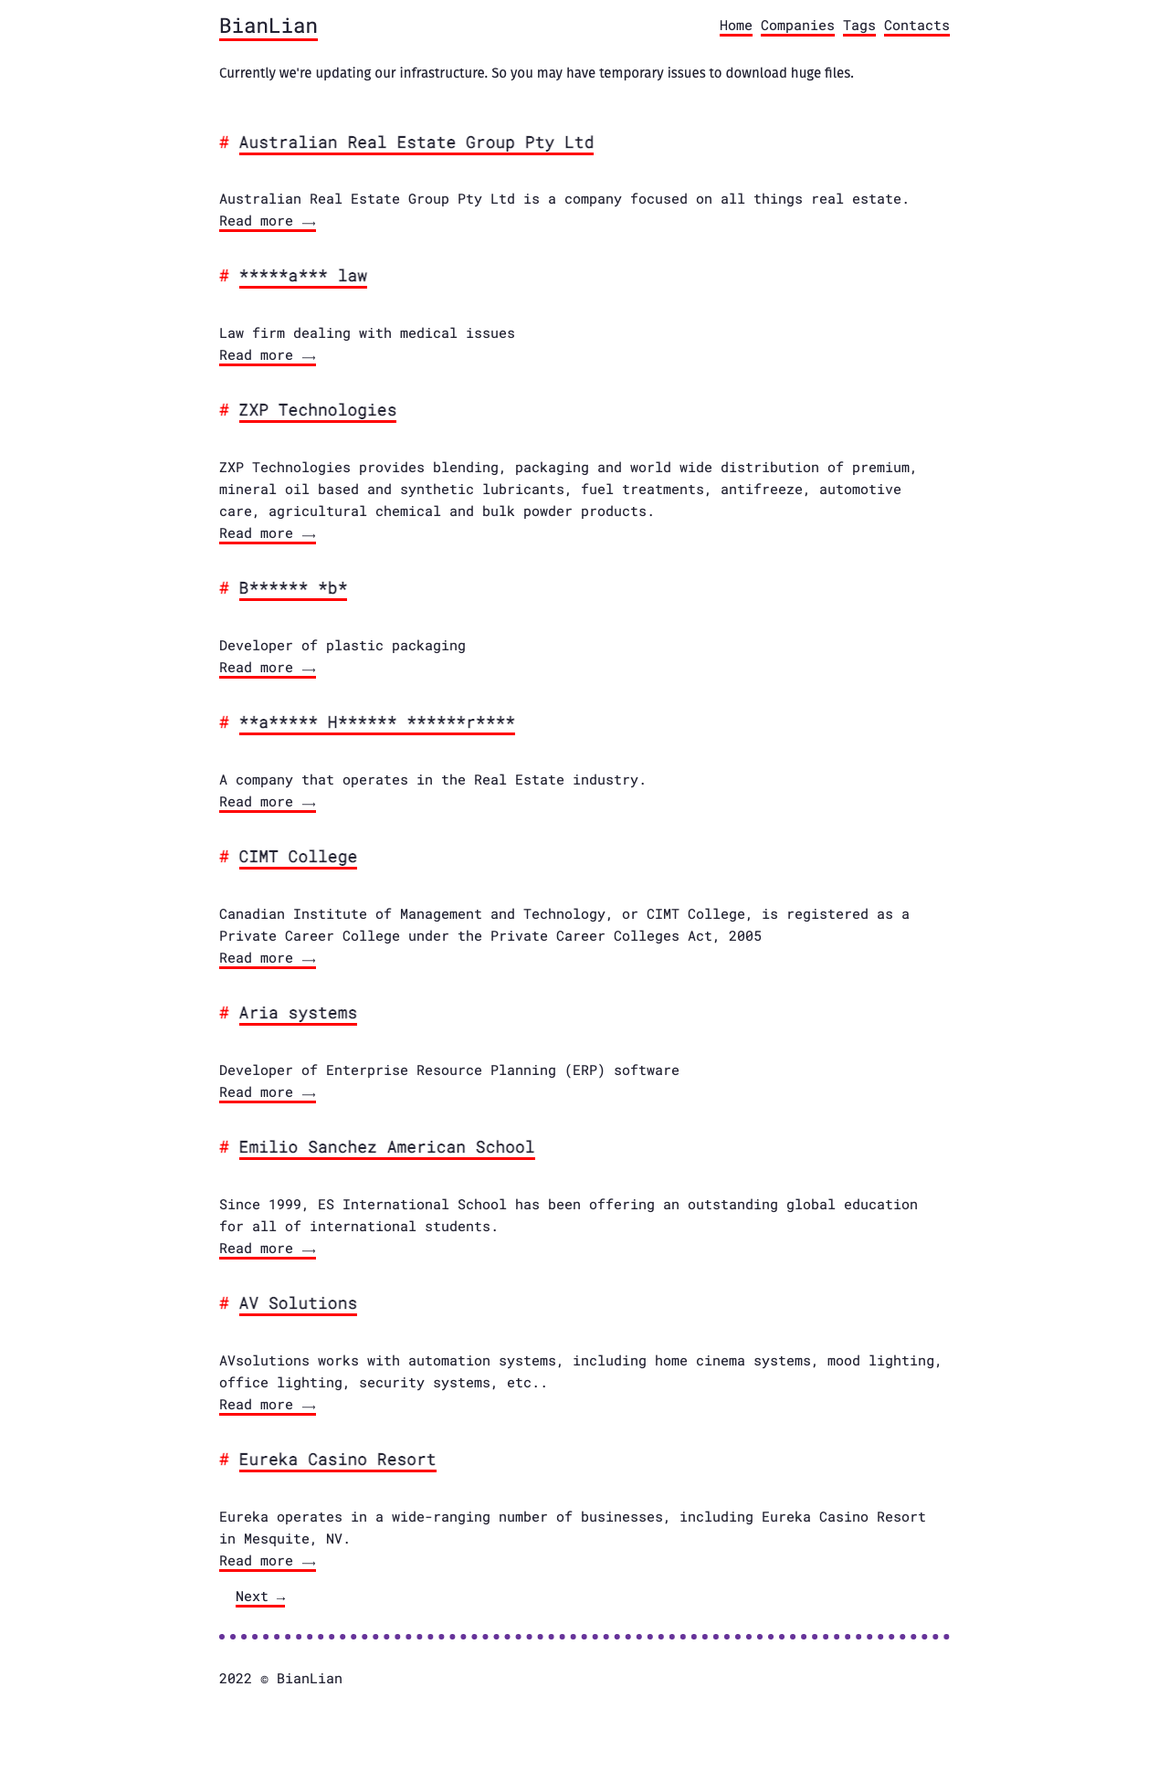
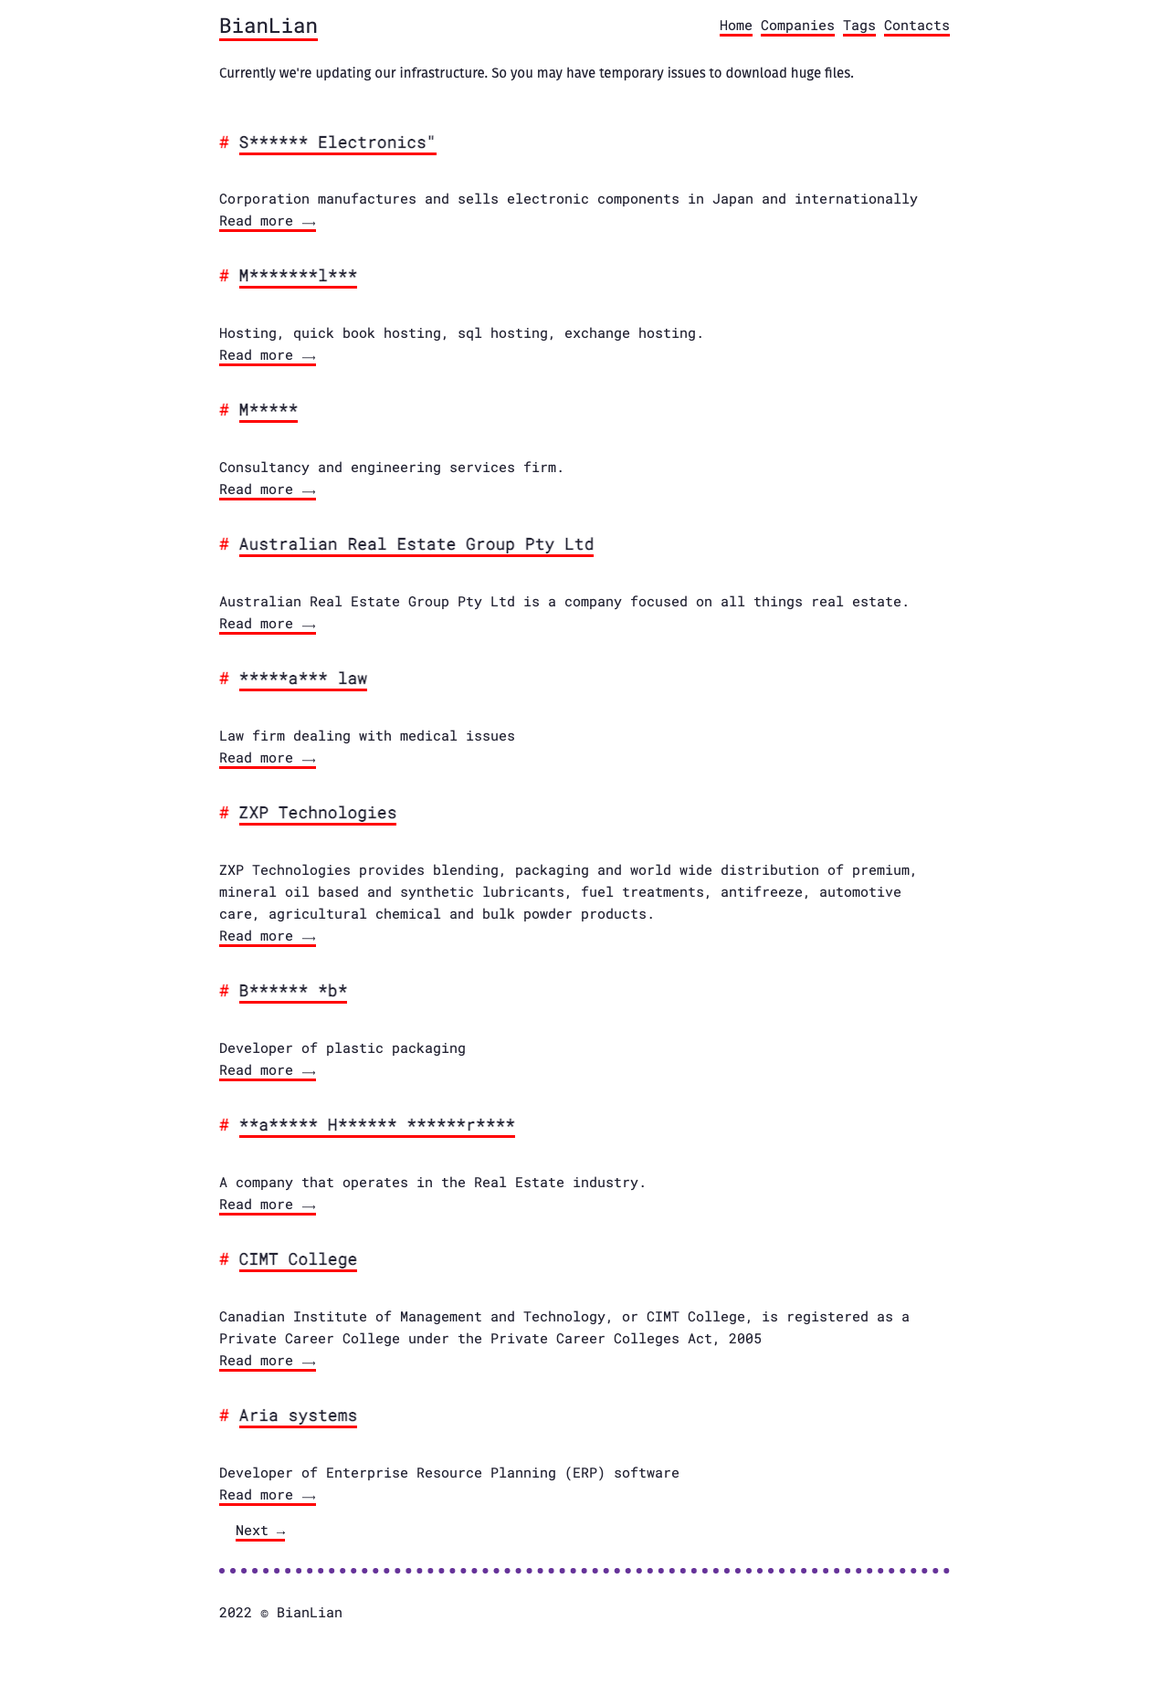
Refresh the Bianlian parser to include description

diff --git a/source/bianlian-bianlianlbc5an4kgnay3opdemgcryg2kpfcbgczopmm3dnbz3uaunad.html b/source/bianlian-bianlianlbc5an4kgnay3opdemgcryg2kpfcbgczopmm3dnbz3uaunad.html
@@ -1,4 +1,4 @@
-<head><meta charset="utf-8"><meta http-equiv="x-ua-compatible" content="IE=edge"><title>Companies - BianLian</title><meta name="viewport" content="width=device-width,initial-scale=1"><meta name="description" content=""><meta property="og:image" content=""><link rel="alternate" type="application/rss+xml" href="/companies/index.xml" title="BianLian"><meta property="og:title" content="Companies"><meta property="og:description" content=""><meta property="og:type" content="website"><meta property="og:url" content="/companies/"><link href="/css/fonts.b685ac6f654695232de7b82a9143a46f9e049c8e3af3a21d9737b01f4be211d1.css" rel="stylesheet"><link rel="stylesheet" type="text/css" media="screen" href="/css/main.40ca3a860425083862b7ebd55447caec5c4384573f0cb098b8d06a91e8dace2e.css"><link id="darkModeStyle" rel="stylesheet" type="text/css" href="/css/dark.726cd11ca6eb7c4f7d48eb420354f814e5c1b94281aaf8fd0511c1319f7f78a4.css" media="(prefers-color-scheme: dark)"></head><body><div class="content"><header><div class="main"><a href="">BianLian</a></div><nav><a href="/">Home</a>
-<a href="/companies">Companies</a>
-<a href="/tags">Tags</a>
-<a href="/contacts">Contacts</a></nav></header><h1 class="page-title">All companies</h1><ul class="posts"><li class="post"><a href="/companies/areg.com.au/">Australian Real Estate Group Pty Ltd</a> <span class="meta">Nov 29, 2022</span></li><li class="post"><a href="/companies/gu__________/">*****a*** law</a> <span class="meta">Nov 28, 2022</span></li><li class="post"><a href="/companies/zxptech.com/">ZXP Technologies</a> <span class="meta">Nov 27, 2022</span></li><li class="post"><a href="/companies/berlina.co.id/">B****** *b*</a> <span class="meta">Nov 27, 2022</span></li><li class="post"><a href="/companies/realstar.ca/">**a***** H****** ******r****</a> <span class="meta">Nov 27, 2022</span></li><li class="post"><a href="/companies/cimtcollege.com/">CIMT College</a> <span class="meta">Nov 25, 2022</span></li><li class="post"><a href="/companies/ariasystems.biz/">Aria systems</a> <span class="meta">Nov 25, 2022</span></li><li class="post"><a href="/companies/es-school.com/">Emilio Sanchez American School</a> <span class="meta">Nov 23, 2022</span></li><li class="post"><a href="/companies/avsolutionsltd.com/">AV Solutions</a> <span class="meta">Nov 23, 2022</span></li><li class="post"><a href="/companies/eurekamesquite.com/">Eureka Casino Resort</a> <span class="meta">Nov 22, 2022</span></li><li class="post"><a href="/companies/cas____/">*u****</a> <span class="meta">Nov 19, 2022</span></li><li class="post"><a href="/companies/btrac.com/">Badger Truck Refrigeration, Inc</a> <span class="meta">Nov 15, 2022</span></li><li class="post"><a href="/companies/blockbuildingsllc/">Block Buildings LLC</a> <span class="meta">Nov 14, 2022</span></li><li class="post"><a href="/companies/altecengineering.com/">Altec Engineering LLC</a> <span class="meta">Nov 14, 2022</span></li><li class="post"><a href="/companies/samrinservices.com/">Samrin Services Pvt Ltd</a> <span class="meta">Nov 13, 2022</span></li><li class="post"><a href="/companies/imgroup.co.uk/">IM Group</a> <span class="meta">Nov 5, 2022</span></li><li class="post"><a href="/companies/hcisystems.net/">Hci Systems Inc</a> <span class="meta">Nov 5, 2022</span></li><li class="post"><a href="/companies/crowntech.com/">CROWN TECHNOLOGY Ltd</a> <span class="meta">Nov 5, 2022</span></li><li class="post"><a href="/companies/ppsvcs.com/">Power Plant Services LLC</a> <span class="meta">Nov 4, 2022</span></li><li class="post"><a href="/companies/abilitycommerce.com/">Ability Commerce</a> <span class="meta">Nov 4, 2022</span></li><li class="post"><a href="/companies/harryrosen.com/">Harry Rosen</a> <span class="meta">Oct 19, 2022</span></li><li class="post"><a href="/companies/goldencoinfood.com/">Golden Coin Bake Shop &amp; Restaurant</a> <span class="meta">Oct 19, 2022</span></li><li class="post"><a href="/companies/rentzmanagement.com/">Rentz Management</a> <span class="meta">Oct 18, 2022</span></li><li class="post"><a href="/companies/bonn.in/">Bonn Nutrients Pvt</a> <span class="meta">Oct 17, 2022</span></li><li class="post"><a href="/companies/vanoss.k12.ok.us/">VANOSS Public School</a> <span class="meta">Oct 7, 2022</span></li><li class="post"><a href="/companies/netas.com.tr/">Netaş</a> <span class="meta">Oct 6, 2022</span></li><li class="post"><a href="/companies/brycon.com/">BRYCON Construction</a> <span class="meta">Oct 5, 2022</span></li><li class="post"><a href="/companies/bontool.com/">Boon Tool Co</a> <span class="meta">Oct 4, 2022</span></li><li class="post"><a href="/companies/apcgazelle.co.uk/">Gazelle International Ltd</a> <span class="meta">Oct 1, 2022</span></li><li class="post"><a href="/companies/versah.com/">Versah</a> <span class="meta">Sep 26, 2022</span></li><li class="post"><a href="/companies/centuracollege.edu/">Centura College</a> <span class="meta">Sep 25, 2022</span></li><li class="post"><a href="/companies/modularmining.com/">Modular Mining Systems</a> <span class="meta">Sep 23, 2022</span></li><li class="post"><a href="/companies/mytonschool.co.uk/">Myton School</a> <span class="meta">Sep 22, 2022</span></li><li class="post"><a href="/companies/bartelt.at/">Bartelt</a> <span class="meta">Sep 21, 2022</span></li><li class="post"><a href="/companies/seanicusa.com/">Seanic Ocean Systems</a> <span class="meta">Sep 16, 2022</span></li><li class="post"><a href="/companies/laderach.com/">Läderach</a> <span class="meta">Sep 15, 2022</span></li><li class="post"><a href="/companies/fhccpa.com/">Feldman, Holtzman &amp; Company, LLC</a> <span class="meta">Sep 15, 2022</span></li><li class="post"><a href="/companies/fhasd.org/">Feldman, Holtzman &amp; Company, LLC</a> <span class="meta">Sep 15, 2022</span></li><li class="post"><a href="/companies/bkl.co.uk/">Berg Kaprow Lewis</a> <span class="meta">Sep 15, 2022</span></li><li class="post"><a href="/companies/aartidrugs.co.in/">Aarti Drugs Ltd</a> <span class="meta">Sep 9, 2022</span></li><li class="post"><a href="/companies/isunflower.com/">Sunflower Farms Distributors, Inc</a> <span class="meta">Sep 5, 2022</span></li><li class="post"><a href="/companies/peterduffyltd.com/">Peter Duffy Ltd</a> <span class="meta">Sep 4, 2022</span></li><li class="post"><a href="/companies/infinitelyvirtual.com/">Infinitely Virtual</a> <span class="meta">Sep 4, 2022</span></li><li class="post"><a href="/companies/baers.com/">Baer's</a> <span class="meta">Sep 2, 2022</span></li><li class="post"><a href="/companies/mayfieldschool.net/">Mayfield School</a> <span class="meta">Sep 1, 2022</span></li><li class="post"><a href="/companies/mcgannfacialdesign.com/">McGann Facial Design</a> <span class="meta">Aug 31, 2022</span></li><li class="post"><a href="/companies/centerbmw.com/">BMW of Sherman Oaks</a> <span class="meta">Aug 31, 2022</span></li><li class="post"><a href="/companies/adaderm.com/">Aesthetic Dermatology Associates</a> <span class="meta">Aug 27, 2022</span></li><li class="post"><a href="/companies/dorseymetrology.com/">Dorsey metrology</a> <span class="meta">Aug 25, 2022</span></li><li class="post"><a href="/companies/captec-group.com/">Captec-group</a> <span class="meta">Aug 24, 2022</span></li><li class="post"><a href="/companies/elslaw.com/">Early, Lucarelli, Sweeney &amp; Meisenkothen</a> <span class="meta">Aug 19, 2022</span></li><li class="post"><a href="/companies/daydreamisland.com/">Daydream Island Resort &amp; Spa</a> <span class="meta">Aug 18, 2022</span></li><li class="post"><a href="/companies/4crisk.com.au/">4cRisk</a> <span class="meta">Aug 10, 2022</span></li><li class="post"><a href="/companies/communitydentalpartners.com/">Community Dental Partners</a> <span class="meta">Aug 8, 2022</span></li><li class="post"><a href="/companies/ramadaherveybay.com.au/">Ramada Hervey Bay Hotel Resort</a> <span class="meta">Aug 6, 2022</span></li><li class="post"><a href="/companies/intlcustomcontrols.com/">International Custom Controls</a> <span class="meta">Jul 31, 2022</span></li><li class="post"><a href="/companies/advancecorp.com/">Advance Corporation</a> <span class="meta">Jul 29, 2022</span></li><li class="post"><a href="/companies/theprestonpartnership.com/">The Preston Partnership</a> <span class="meta">Jul 28, 2022</span></li><li class="post"><a href="/companies/wwaytv3.com/">WWAY-TV, LLC</a> <span class="meta">Jul 22, 2022</span></li><li class="post"><a href="/companies/alegriafamily.com/">Alegria Family Services</a> <span class="meta">Jul 22, 2022</span></li><li class="post"><a href="/companies/magnachem.com/">Magnachem</a> <span class="meta">Jul 21, 2022</span></li><li class="post"><a href="/companies/agrlaw.com/">Abdulaziz, Grossbart &amp; Rudman</a> <span class="meta">Jul 12, 2022</span></li><li class="post"><a href="/companies/spaldinggrammar.lincs.sch.uk/">Spalding Grammar School</a> <span class="meta">Jul 11, 2022</span></li><li class="post"><a href="/companies/conwayelectrics.com.au/">Conway Electrics</a> <span class="meta">Jul 8, 2022</span></li><li class="post"><a href="/companies/veritassolicitors.co.uk/">Veritas Solicitors</a> <span class="meta">Jun 29, 2022</span></li><li class="post"><a href="/companies/rainforgrowth.com/">Rain the Growth Agency</a> <span class="meta">Jun 28, 2022</span></li><li class="post"><a href="/companies/mooresvilleschools.org/">Mooresville Schools</a> <span class="meta">Jun 21, 2022</span></li><li class="post"><a href="/companies/isgec.com/">ISGEC Heavy Engineering</a> <span class="meta">Jun 21, 2022</span></li><li class="post"><a href="/companies/hpts.tv/">High Power Technical Services</a> <span class="meta">Jun 20, 2022</span></li><li class="post"><a href="/companies/aiasc.com/">Anderson Insurance Associates</a> <span class="meta">Jun 17, 2022</span></li><li class="post"><a href="/companies/mackenziemedical.com/">Mackenzie Medical</a> <span class="meta">Jun 5, 2022</span></li></ul><footer><div class="footer-info">2022 © BianLian</div></footer></div></body>
+<!doctype html><html><head><meta name=generator content="Hugo 0.101.0"><meta charset=utf-8><meta http-equiv=x-ua-compatible content="IE=edge"><title>BianLian | Home</title><meta name=viewport content="width=device-width,initial-scale=1"><meta name=description content><meta property="og:image" content><link rel=alternate type=application/rss+xml href=/index.xml title=BianLian><meta property="og:title" content><meta property="og:description" content><meta property="og:type" content="website"><meta property="og:url" content="/"><link href=/css/fonts.b685ac6f654695232de7b82a9143a46f9e049c8e3af3a21d9737b01f4be211d1.css rel=stylesheet><link rel=stylesheet type=text/css media=screen href=/css/main.40ca3a860425083862b7ebd55447caec5c4384573f0cb098b8d06a91e8dace2e.css><link id=darkModeStyle rel=stylesheet type=text/css href=/css/dark.726cd11ca6eb7c4f7d48eb420354f814e5c1b94281aaf8fd0511c1319f7f78a4.css media="(prefers-color-scheme: dark)"></head><body><div class=content><header><div class=main><a href>BianLian</a></div><nav><a href=/>Home</a>
+    <a href=/companies>Companies</a>
+    <a href=/tags>Tags</a>
+    <a href=/contacts>Contacts</a></nav></header><main class=list><div class=site-description><p>Currently we're updating our infrastructure. So you may have temporary issues to download huge files.</p></div><section class=list-item><h1 class=title><a href=/companies/s______/>S****** Electronics"</a></h1><br><div class=description>Corporation manufactures and sells electronic components in Japan and internationally</div><a class=readmore href=/companies/s______/>Read more ⟶</a></section><section class=list-item><h1 class=title><a href=/companies/m___________/>M*******l***</a></h1><br><div class=description>Hosting, quick book hosting, sql hosting, exchange hosting.</div><a class=readmore href=/companies/m___________/>Read more ⟶</a></section><section class=list-item><h1 class=title><a href=/companies/m_____.com/>M*****</a></h1><br><div class=description>Consultancy and engineering services firm.</div><a class=readmore href=/companies/m_____.com/>Read more ⟶</a></section><section class=list-item><h1 class=title><a href=/companies/areg.com.au/>Australian Real Estate Group Pty Ltd</a></h1><br><div class=description>Australian Real Estate Group Pty Ltd is a company focused on all things real estate.</div><a class=readmore href=/companies/areg.com.au/>Read more ⟶</a></section><section class=list-item><h1 class=title><a href=/companies/gu__________/>*****a*** law</a></h1><br><div class=description>Law firm dealing with medical issues</div><a class=readmore href=/companies/gu__________/>Read more ⟶</a></section><section class=list-item><h1 class=title><a href=/companies/zxptech.com/>ZXP Technologies</a></h1><br><div class=description>ZXP Technologies provides blending, packaging and world wide distribution of premium, mineral oil based and synthetic lubricants, fuel treatments, antifreeze, automotive care, agricultural chemical and bulk powder products.</div><a class=readmore href=/companies/zxptech.com/>Read more ⟶</a></section><section class=list-item><h1 class=title><a href=/companies/berlina.co.id/>B****** *b*</a></h1><br><div class=description>Developer of plastic packaging</div><a class=readmore href=/companies/berlina.co.id/>Read more ⟶</a></section><section class=list-item><h1 class=title><a href=/companies/realstar.ca/>**a***** H****** ******r****</a></h1><br><div class=description>A company that operates in the Real Estate industry.</div><a class=readmore href=/companies/realstar.ca/>Read more ⟶</a></section><section class=list-item><h1 class=title><a href=/companies/cimtcollege.com/>CIMT College</a></h1><br><div class=description>Canadian Institute of Management and Technology, or CIMT College, is registered as a Private Career College under the Private Career Colleges Act, 2005</div><a class=readmore href=/companies/cimtcollege.com/>Read more ⟶</a></section><section class=list-item><h1 class=title><a href=/companies/ariasystems.biz/>Aria systems</a></h1><br><div class=description>Developer of Enterprise Resource Planning (ERP) software</div><a class=readmore href=/companies/ariasystems.biz/>Read more ⟶</a></section><ul class=pagination><span class="page-item page-prev"></span><span class="page-item page-next"><a href=/page/2/ class=page-link aria-label=Next><span aria-hidden=true>Next →</span></a></span></ul></main><footer><div class=footer-info>2022 © BianLian</div></footer></div></body></html>

diff --git a/parsers.py b/parsers.py
@@ -738,17 +738,17 @@ def omega():
     for post in posts:
         appender(post, '0mega')
 
-def bianlian():
-    stdlog('parser: ' + 'bianlian')
-    # sed -n '/<a href="\/companies\//,/<\/a>/p' source/bianlian-*.html | egrep -o "([A-Za-z0-9 ,\'.-])+</a>" | cut -d '<' -f 1 | sed -e '/Contacts/d'
-    parser = '''
-    sed -n '/<a href=\/companies\//,/<\/a>/p' source/bianlian-*.html | sed 's/&amp;/and/' | egrep -o "([A-Za-z0-9 ,*\'.-])+</a>" | cut -d '<' -f 1 | sed -e '/Contacts/d' | sed -e 's/^ *//g' -e 's/[[:space:]]*$//'
-    '''
-    posts = runshellcmd(parser)
-    if len(posts) == 1:
-        errlog('bianlian: ' + 'parsing fail')
-    for post in posts:
-        appender(post, 'bianlian')
+#def bianlian():
+#    stdlog('parser: ' + 'bianlian')
+#    # sed -n '/<a href="\/companies\//,/<\/a>/p' source/bianlian-*.html | egrep -o "([A-Za-z0-9 ,\'.-])+</a>" | cut -d '<' -f 1 | sed -e '/Contacts/d'
+#    parser = '''
+#    sed -n '/<a href=\/companies\//,/<\/a>/p' source/bianlian-*.html | sed 's/&amp;/and/' | egrep -o "([A-Za-z0-9 ,*\'.-])+</a>" | cut -d '<' -f 1 | sed -e '/Contacts/d' | sed -e 's/^ *//g' -e 's/[[:space:]]*$//'
+#    '''
+#    posts = runshellcmd(parser)
+#    if len(posts) == 1:
+#        errlog('bianlian: ' + 'parsing fail')
+#    for post in posts:
+#        appender(post, 'bianlian')
 
 def redalert():
     stdlog('parser: ' + 'redalert')
@@ -1127,4 +1127,20 @@ def unsafe():
             errlog('unsafe: ' + 'parsing fail')
             pass
 
-                 
+def bianlian():
+    stdlog('parser: ' + 'bianlian')
+    for filename in os.listdir('source'):
+        try:
+            if filename.startswith('bianlian-'):
+                html_doc='source/'+filename
+                file=open(html_doc,'r')
+                soup=BeautifulSoup(file,'html.parser')
+                divs_name=soup.find_all('section', {"class": "list-item"})
+                for div in divs_name:
+                    title = div.h1.text.strip()
+                    description = div.div.text.strip()
+                    appender(title, 'bianlian', description)
+                file.close()
+        except:
+            print("Failed during : " + filename)
+            pass

diff --git a/docs/recentposts.md b/docs/recentposts.md
@@ -2,6 +2,9 @@
 
 | Date | Title | Group |
 |---|---|---|
+| 2022-12-21 | [`M*****`](https://google.com/search?q=M%2A%2A%2A%2A%2A) | [bianlian](profiles.md?id=bianlian) |
+| 2022-12-21 | [`M*******l***`](https://google.com/search?q=M%2A%2A%2A%2A%2A%2A%2Al%2A%2A%2A) | [bianlian](profiles.md?id=bianlian) |
+| 2022-12-21 | [`S****** Electronics"`](https://google.com/search?q=S%2A%2A%2A%2A%2A%2A+Electronics%22) | [bianlian](profiles.md?id=bianlian) |
 | 2022-12-21 | [`ATLAS`](https://google.com/search?q=ATLAS) | [royal](profiles.md?id=royal) |
 | 2022-12-21 | [`Goodwill industries`](https://google.com/search?q=Goodwill+industries) | [karakurt](profiles.md?id=karakurt) |
 | 2022-12-21 | [`G.R. Sponaugle`](https://google.com/search?q=G.R.+Sponaugle) | [unsafe](profiles.md?id=unsafe) |
@@ -199,8 +202,5 @@
 | 2022-12-09 | [`Panolam Surface Systems`](https://google.com/search?q=Panolam+Surface+Systems) | [blackbasta](profiles.md?id=blackbasta) |
 | 2022-12-09 | [`SEACAST`](https://google.com/search?q=SEACAST) | [blackbasta](profiles.md?id=blackbasta) |
 | 2022-12-09 | [`nworksllc`](https://google.com/search?q=nworksllc) | [blackbasta](profiles.md?id=blackbasta) |
-| 2022-12-09 | [`Warren County Community College`](https://google.com/search?q=Warren+County+Community+College) | [alphv](profiles.md?id=alphv) |
-| 2022-12-09 | [`ChemiFlex`](https://google.com/search?q=ChemiFlex) | [quantum](profiles.md?id=quantum) |
-| 2022-12-09 | [`Radical Sportscars`](https://google.com/search?q=Radical+Sportscars) | [quantum](profiles.md?id=quantum) |
 
-Last update : _Wednesday 21/12/2022 19.12 (UTC)_
+Last update : _Wednesday 21/12/2022 20.04 (UTC)_

diff --git a/docs/allposts.md b/docs/allposts.md
@@ -1,7 +1,7 @@
 # 📰 All posts
 
 
-_All `5680` posts_
+_All `5683` posts_
 
 
 💾 [Download](https://raw.githubusercontent.com/JMousqueton/ransomwatch/main/posts.json) full list in **json** format
@@ -11,6 +11,9 @@ _All `5680` posts_
 
 | date | title | group |
 |---|---|---|
+| 2022-12-21 | [`M*****`](https://google.com/search?q=M%2A%2A%2A%2A%2A) | [bianlian](profiles.md?id=bianlian) |
+| 2022-12-21 | [`M*******l***`](https://google.com/search?q=M%2A%2A%2A%2A%2A%2A%2Al%2A%2A%2A) | [bianlian](profiles.md?id=bianlian) |
+| 2022-12-21 | [`S****** Electronics"`](https://google.com/search?q=S%2A%2A%2A%2A%2A%2A+Electronics%22) | [bianlian](profiles.md?id=bianlian) |
 | 2022-12-21 | [`ATLAS`](https://google.com/search?q=ATLAS) | [royal](profiles.md?id=royal) |
 | 2022-12-21 | [`Goodwill industries`](https://google.com/search?q=Goodwill+industries) | [karakurt](profiles.md?id=karakurt) |
 | 2022-12-21 | [`G.R. Sponaugle`](https://google.com/search?q=G.R.+Sponaugle) | [unsafe](profiles.md?id=unsafe) |
@@ -5691,4 +5694,4 @@ _All `5680` posts_
 | 2020-06-10 | [`Leaks Company Birch Communications inc.`](https://google.com/search?q=Leaks+Company+Birch+Communications+inc.) | [ragnarlocker](profiles.md?id=ragnarlocker) |
 | 2020-01-12 | [`Windemuller`](https://google.com/search?q=Windemuller) | [lorenz](profiles.md?id=lorenz) |
 
-Last update : _Wednesday 21/12/2022 19.12 (UTC)_
+Last update : _Wednesday 21/12/2022 20.04 (UTC)_

diff --git a/docs/README.md b/docs/README.md
@@ -15,13 +15,13 @@ _`Ransomware.live` is collecting, indexing, and centralizing ransomware informat
 Check recent ransomware posts [`here`](recentposts.md)
 
 
-⏰ There have been `14` posts within the `last 24 hours`
+⏰ There have been `17` posts within the `last 24 hours`
 
-🕓 There have been `291` posts within the `month of december`
+🕓 There have been `294` posts within the `month of december`
 
-📅 There have been `899` posts within the `last 90 days`
+📅 There have been `901` posts within the `last 90 days`
 
-🏚 There have been `3394` posts since the `1st January 2022`
+🏚 There have been `3397` posts since the `1st January 2022`
 
 📸 There are `115` ransomware group host screenshots
 
@@ -29,11 +29,11 @@ Check recent ransomware posts [`here`](recentposts.md)
 
 🚀 There have been `2252` posts `last year`
 
-🐣 There have been `5680` posts `since the dawn of ransomware.live`
+🐣 There have been `5683` posts `since the dawn of ransomware.live`
 
 ⚙ There are `70` custom parsers indexing posts
 
 
 
-Last update : _Wednesday 21/12/2022 19.12 (UTC)_
+Last update : _Wednesday 21/12/2022 20.04 (UTC)_
 

diff --git a/docs/profiles.md b/docs/profiles.md
@@ -848,10 +848,13 @@ _`captcha prevents indexing`_
 
 ### Posts
 
-> 81 posts found
+> 84 posts found
 
 | post | date | Description
 |---|---|---|
+| [`M*****`]() | 21/12/2022 | Consultancy and engineering services firm. |
+| [`M*******l***`]() | 21/12/2022 | Hosting, quick book hosting, sql hosting, exchange hosting. |
+| [`S****** Electronics"`]() | 21/12/2022 | Corporation manufactures and sells electronic components in Japan and internationally |
 | `Australian Real Estate Group Pty Ltd` | 17/12/2022 |   |
 | `Spa` | 16/12/2022 |   |
 | `Company, LLC` | 16/12/2022 |   |
@@ -9038,4 +9041,4 @@ _`aka fonix`_
  --- 
 
 
-Last update : _Wednesday 21/12/2022 19.12 (UTC)_
+Last update : _Wednesday 21/12/2022 20.04 (UTC)_
